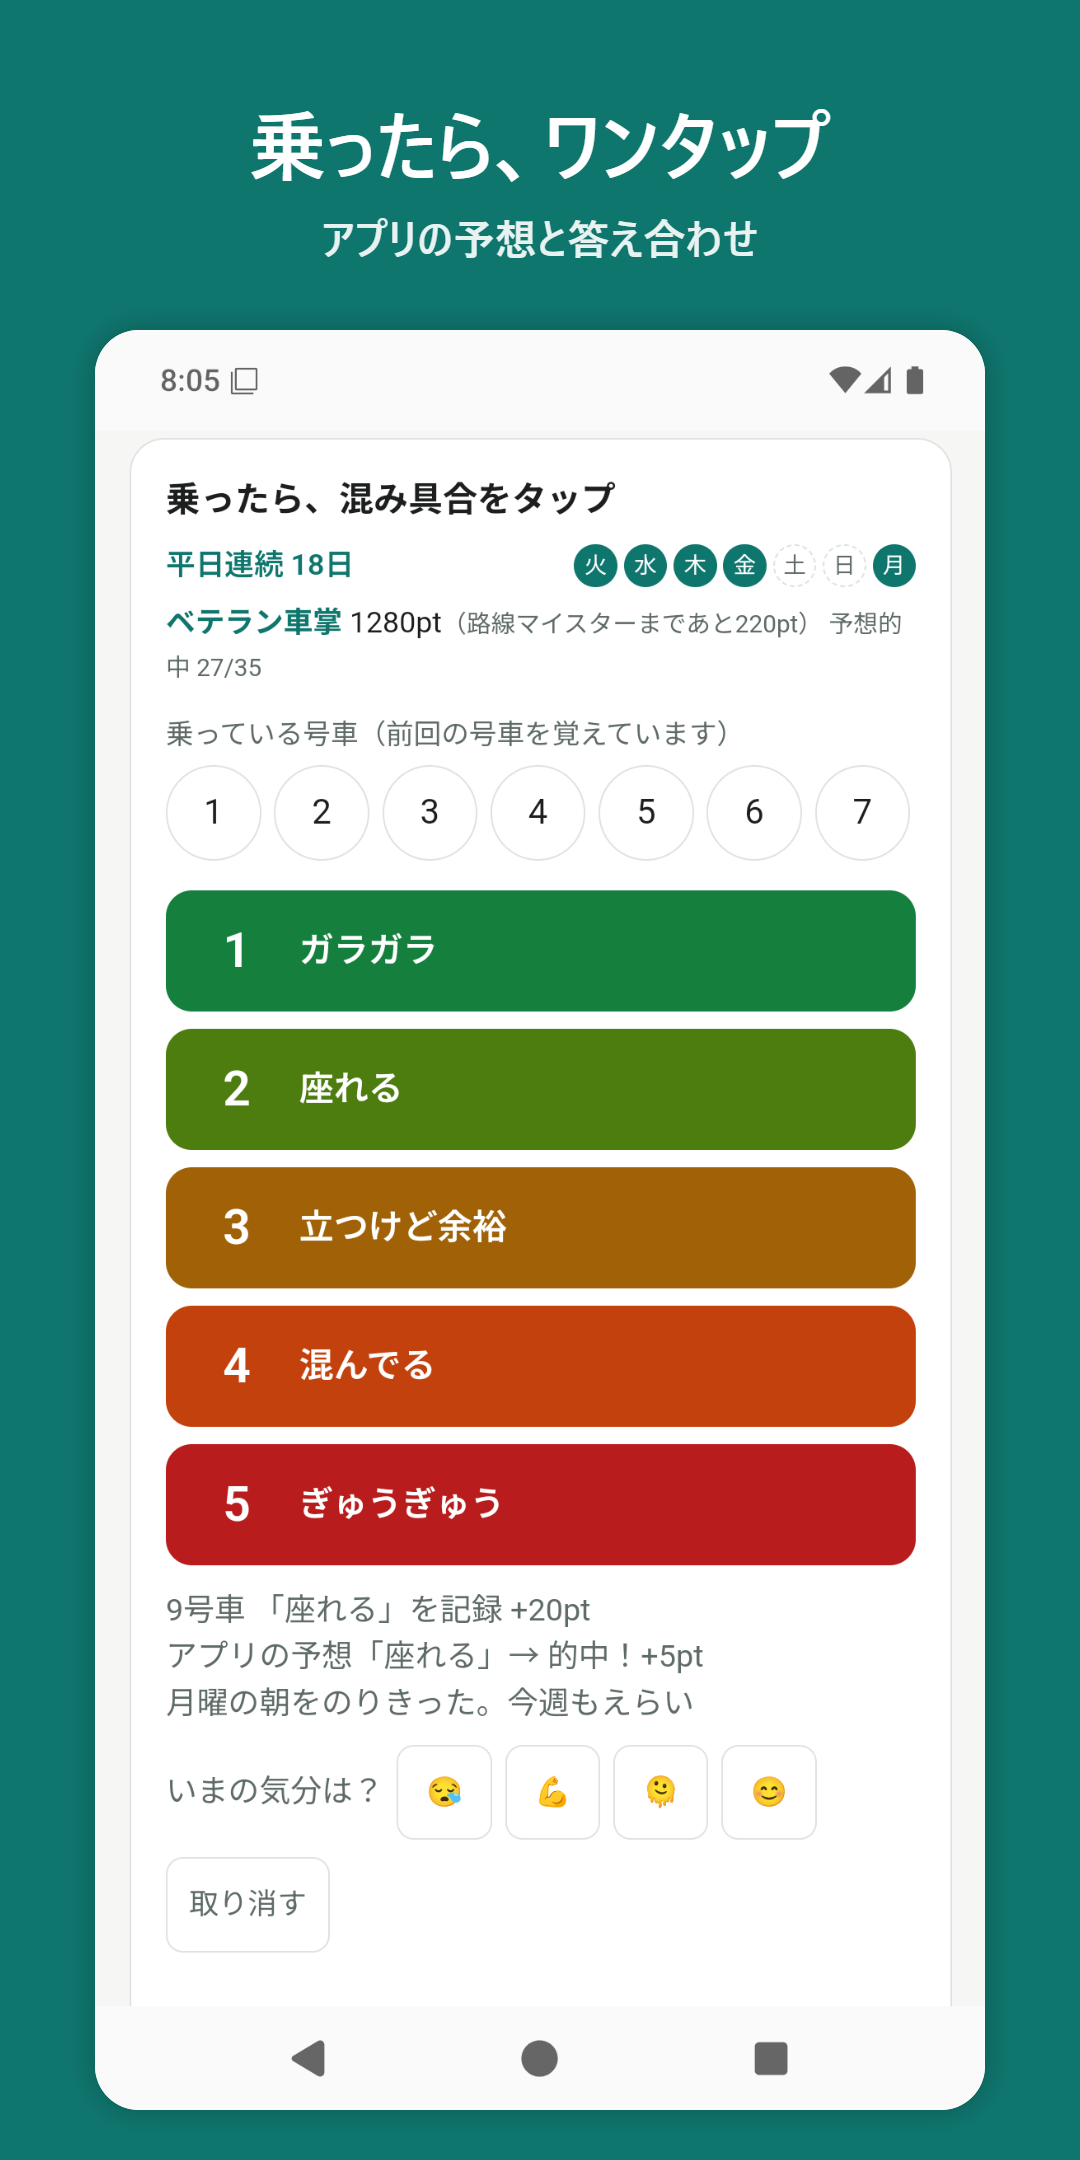
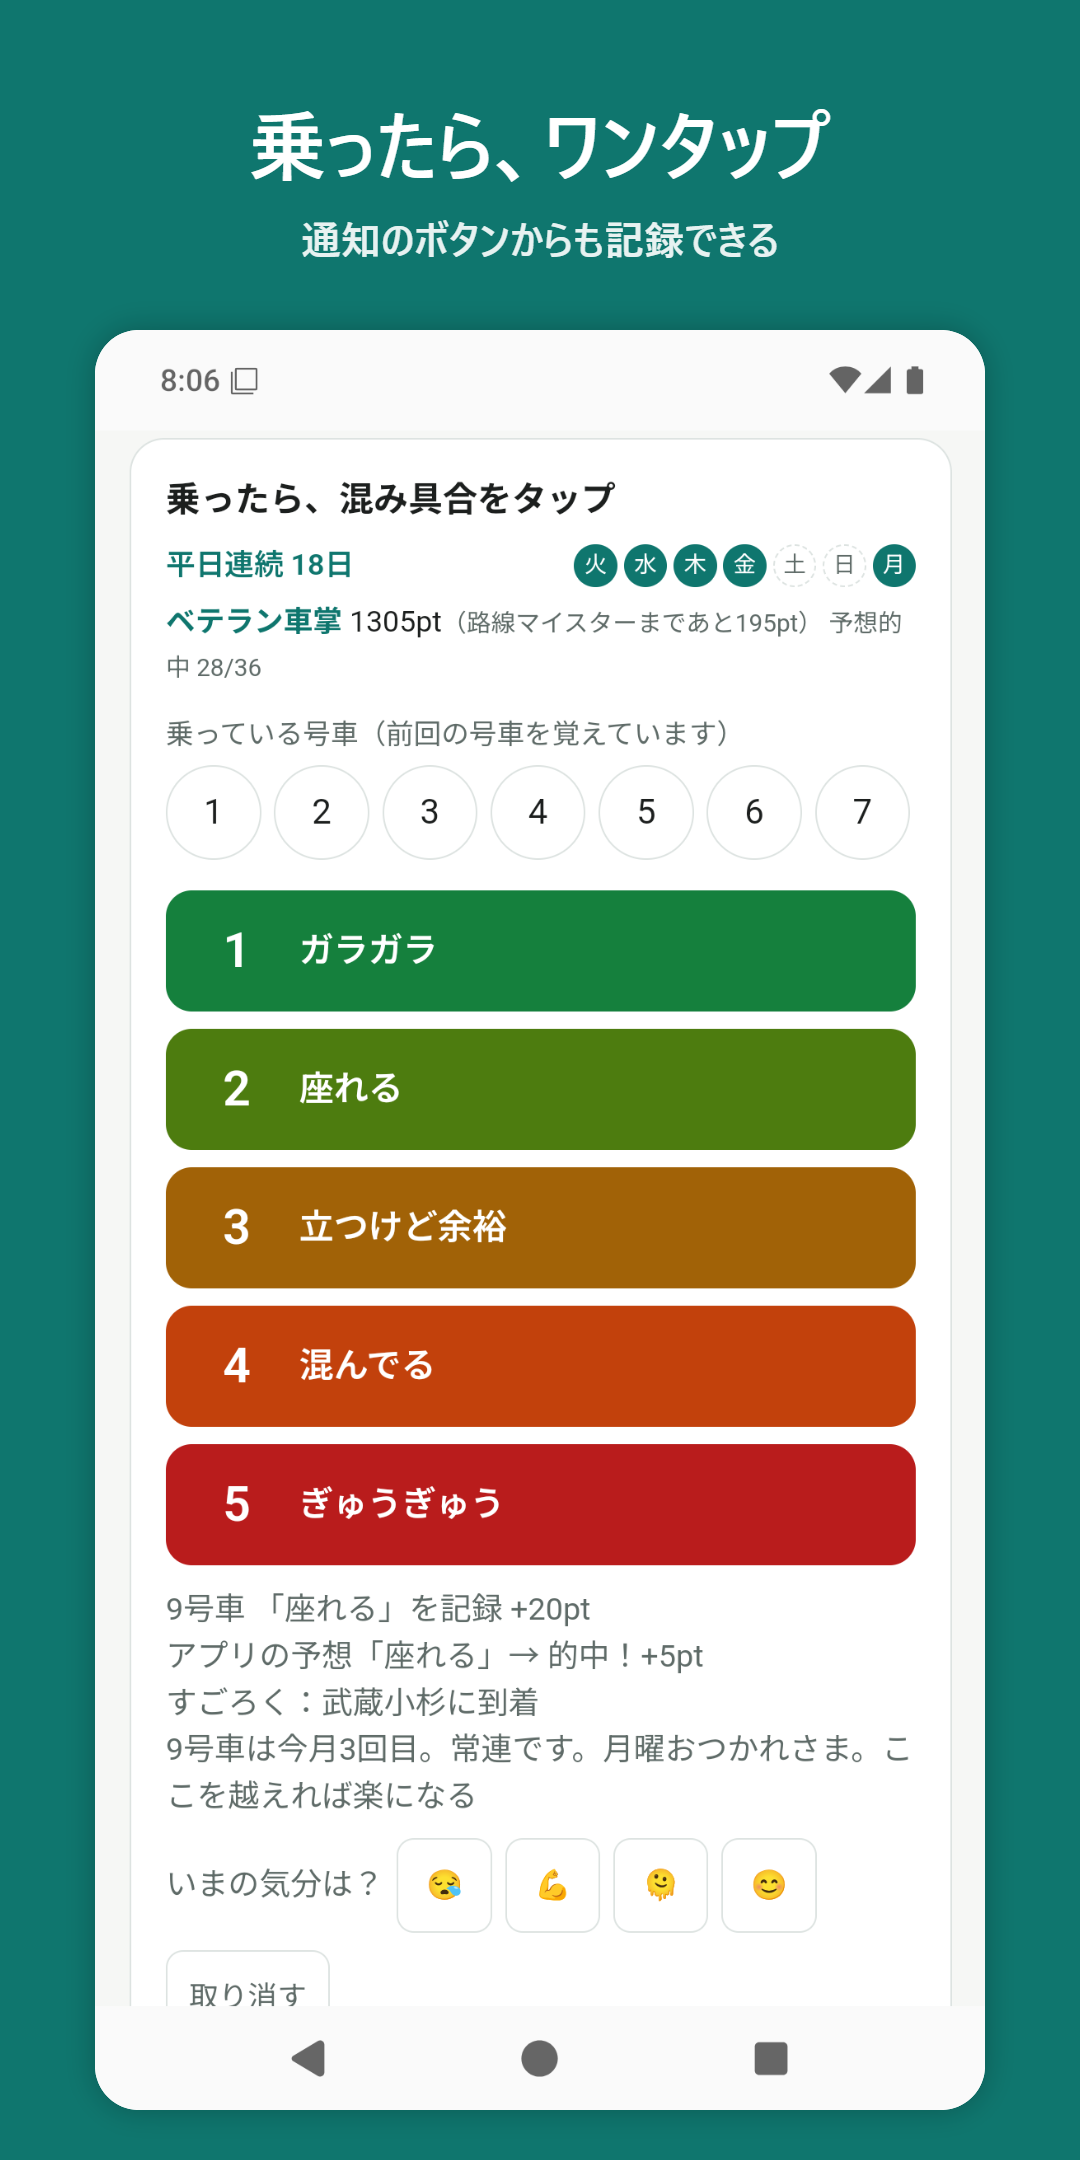
B1: ストア画像を 4 枚に（号車・記録・すごろく＋ビンゴ・駅スタンプ）。1.13（versionCode 15）とリリースノート、やることリスト更新

diff --git a/docs/TODO.md b/docs/TODO.md
@@ -7,6 +7,8 @@
 - [ ] Play Console の「詳しい説明」を docs/store/listing.md の最新版に差し替え（位置情報の説明が古いまま）
 - [ ] 駅スタンプ（位置情報）を実機の通勤で 1 度試す
 - [ ] 宣伝する路線を 1〜2 本決める
+- [ ] 1.13 をアップロード（下の A〜C をまとめた版）
+- [ ] ストアのスクリーンショットを play-1〜4.png の 4 枚に差し替え（docs/store/screenshots/）
 - [ ] （あとで）iPhone 版のための Mac
 
 ## こちらで進めること
@@ -19,7 +21,7 @@
 - [x] A6 報告に「何分前の記録か」を添え、サーバーは記録した時刻で数える
 
 ### B. 宣伝の前に
-- [ ] B1 ストア画像の 3・4 枚目を遊び（すごろく＋ビンゴ、駅スタンプ）に差し替え（アップロードはユーザー）
+- [x] B1 ストア画像の 3・4 枚目を遊び（すごろく＋ビンゴ、駅スタンプ）に差し替え（アップロードはユーザー）
 - [x] B2 人気路線でサーバーの読み取りが尽きないよう、集計を 60 秒みんなで使い回す
 
 ### C. もっと楽しく・わかりやすく
@@ -27,4 +29,4 @@
 - [x] C2 いつもの号車が混みそうな日だけ強めに知らせる
 - [x] C3 深夜（0〜4 時）に開いたら、明日の朝の予想を出す
 - [x] C4 凡例に「点線＝報告なし（予想）」
-- [ ] C5 雨の日の傾向（データがたまってから）
+- [ ] C5 雨の日の傾向（データがたまってから。報告が集まるまで保留）

diff --git a/docs/PLAY_RELEASE.md b/docs/PLAY_RELEASE.md
@@ -40,7 +40,7 @@ cd android && JAVA_HOME="C:/Program Files/Eclipse Adoptium/jdk-21.0.12.101-hotsp
 | アプリ名・説明 | `docs/store/listing.md` |
 | アイコン 512px | `www/icon-512.png` |
 | フィーチャーグラフィック | `docs/store/feature-graphic.png` |
-| スクリーンショット | `docs/store/screenshots/play-1〜3.png`（見出しつき。元の画面は android-*.png） |
+| スクリーンショット | `docs/store/screenshots/play-1〜4.png`（見出しつき: 号車・記録・すごろく＋ビンゴ・駅スタンプ。元の画面は android-*.png） |
 | カテゴリ | 地図／ナビ |
 | プライバシーポリシー | https://teanyq.github.io/suiteru-log/privacy.html |
 | アプリの署名 | Play App Signing を使う（既定）。アップロードするのは上で作った鍵で署名した AAB |

diff --git a/docs/store/release-notes.md b/docs/store/release-notes.md
@@ -1,5 +1,17 @@
 # リリースノート（Play Console に貼る。500 文字以内）
 
+## 1.13
+```
+<ja-JP>
+・コレクション：制覇した路線、路線ごとの駅スタンプ（◯/全◯駅）、季節のバッジをまとめて見られるように
+・いつもの号車が混みそうな日は「今日は◯号車へ」とお知らせ
+・夜中に開いたら、朝のいつもの時刻の予想を表示
+・通知やアイコン長押しで記録したとき、すごろく・ビンゴの結果を通知でお知らせ
+・ポイント・すごろく・ビンゴは15分に1回・1日4回までに（連打しても進みません）
+・取り消した記録がみんなの集計に入らないように、電波が戻ったときの記録の時刻を正確に
+</ja-JP>
+```
+
 ## 1.12
 ```
 <ja-JP>
